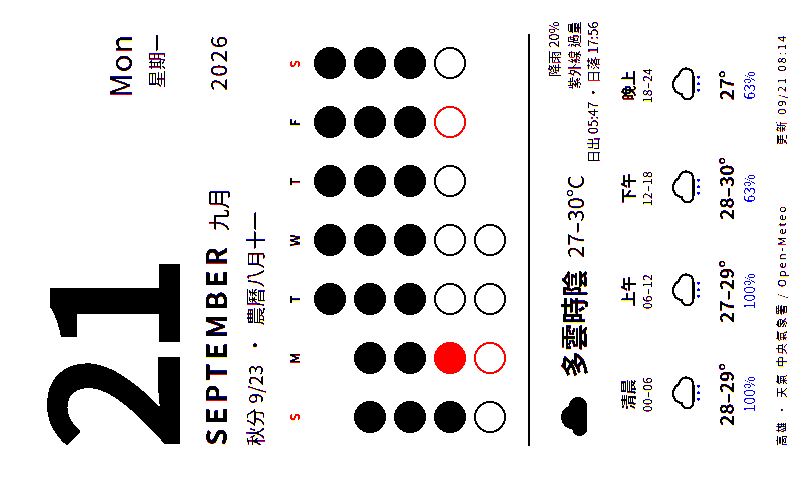
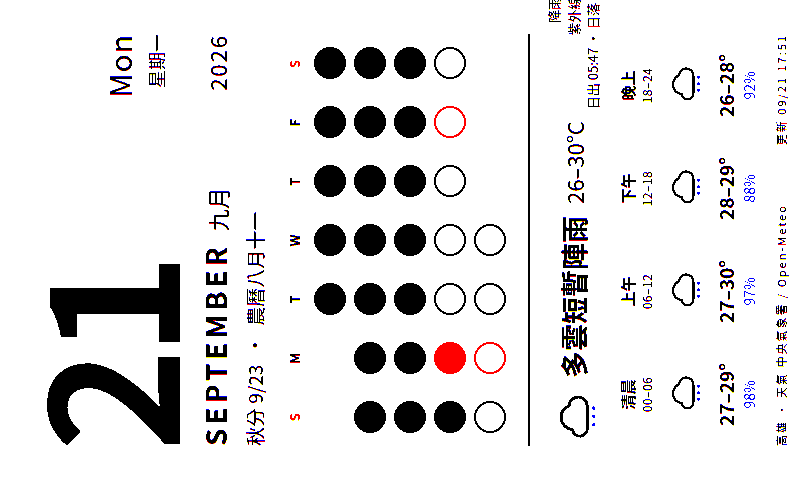
deploy: cf7d1051eb6821bc691ba0ade4beb12cdf9fe0ef

diff --git a/calendar.html b/calendar.html
@@ -54,9 +54,9 @@
   <div class="today"><span class="lunar">秋分 9/23</span><span>·</span><span class="lunar">農曆八月十一</span></div>
   <div class="grid"><div class="h we">S</div><div class="h">M</div><div class="h">T</div><div class="h">W</div><div class="h">T</div><div class="h">F</div><div class="h we">S</div><div class="dot empty"></div><div class="dot empty"></div><div class="dot past" title="1"></div><div class="dot past" title="2"></div><div class="dot past" title="3"></div><div class="dot past" title="4"></div><div class="dot past" title="5"></div><div class="dot past" title="6"></div><div class="dot past" title="7"></div><div class="dot past" title="8"></div><div class="dot past" title="9"></div><div class="dot past" title="10"></div><div class="dot past" title="11"></div><div class="dot past" title="12"></div><div class="dot past" title="13"></div><div class="dot past" title="14"></div><div class="dot past" title="15"></div><div class="dot past" title="16"></div><div class="dot past" title="17"></div><div class="dot past" title="18"></div><div class="dot past" title="19"></div><div class="dot past" title="20"></div><div class="dot now" title="21"></div><div class="dot future" title="22"></div><div class="dot future" title="23"></div><div class="dot future" title="24"></div><div class="dot future hol" title="25"></div><div class="dot future" title="26"></div><div class="dot future" title="27"></div><div class="dot future hol" title="28"></div><div class="dot future" title="29"></div><div class="dot future" title="30"></div></div>
   <div class="wx"><div class="line">
-    <div class="wxhead"><svg viewBox="0 0 64 68" xmlns="http://www.w3.org/2000/svg"><path d="M20 50h26a11 11 0 0 0 1-22 15 15 0 0 0-29 4 9 9 0 0 0 2 18z" fill="#000"/></svg><span class="desc">多雲時陰</span><span class="temp">27–30°C</span>
-      <div class="meta">降雨 20%<br>紫外線 過量<br>日出 05:47 · 日落 17:56</div></div>
-    <div class="slots"><div class="slot"><div class="n">清晨</div><div class="hrs">00–06</div><svg viewBox="0 0 64 68" xmlns="http://www.w3.org/2000/svg"><path d="M20 50h26a11 11 0 0 0 1-22 15 15 0 0 0-29 4 9 9 0 0 0 2 18z" fill="#fff" stroke="#000" stroke-width="3.5" stroke-linejoin="round"/><g fill="#0040ff"><circle cx="24" cy="58" r="2.2"/><circle cx="34" cy="58" r="2.2"/><circle cx="44" cy="58" r="2.2"/></g></svg><div class="t">28–29°</div><div class="p ">100%</div></div><div class="slot"><div class="n">上午</div><div class="hrs">06–12</div><svg viewBox="0 0 64 68" xmlns="http://www.w3.org/2000/svg"><path d="M20 50h26a11 11 0 0 0 1-22 15 15 0 0 0-29 4 9 9 0 0 0 2 18z" fill="#fff" stroke="#000" stroke-width="3.5" stroke-linejoin="round"/><g fill="#0040ff"><circle cx="24" cy="58" r="2.2"/><circle cx="34" cy="58" r="2.2"/><circle cx="44" cy="58" r="2.2"/></g></svg><div class="t">27–29°</div><div class="p ">100%</div></div><div class="slot"><div class="n">下午</div><div class="hrs">12–18</div><svg viewBox="0 0 64 68" xmlns="http://www.w3.org/2000/svg"><path d="M20 50h26a11 11 0 0 0 1-22 15 15 0 0 0-29 4 9 9 0 0 0 2 18z" fill="#fff" stroke="#000" stroke-width="3.5" stroke-linejoin="round"/><g fill="#0040ff"><circle cx="24" cy="58" r="2.2"/><circle cx="34" cy="58" r="2.2"/><circle cx="44" cy="58" r="2.2"/></g></svg><div class="t">28–30°</div><div class="p ">63%</div></div><div class="slot"><div class="n">晚上</div><div class="hrs">18–24</div><svg viewBox="0 0 64 68" xmlns="http://www.w3.org/2000/svg"><path d="M20 50h26a11 11 0 0 0 1-22 15 15 0 0 0-29 4 9 9 0 0 0 2 18z" fill="#fff" stroke="#000" stroke-width="3.5" stroke-linejoin="round"/><g fill="#0040ff"><circle cx="24" cy="58" r="2.2"/><circle cx="34" cy="58" r="2.2"/><circle cx="44" cy="58" r="2.2"/></g></svg><div class="t">27°</div><div class="p ">63%</div></div></div>
+    <div class="wxhead"><svg viewBox="0 0 64 68" xmlns="http://www.w3.org/2000/svg"><path d="M20 50h26a11 11 0 0 0 1-22 15 15 0 0 0-29 4 9 9 0 0 0 2 18z" fill="#fff" stroke="#000" stroke-width="3.5" stroke-linejoin="round"/><g fill="#0040ff"><circle cx="24" cy="58" r="2.2"/><circle cx="34" cy="58" r="2.2"/><circle cx="44" cy="58" r="2.2"/></g></svg><span class="desc">多雲短暫陣雨</span><span class="temp">26–30°C</span>
+      <div class="meta">降雨 30%<br>紫外線 過量<br>日出 05:47 · 日落 17:56</div></div>
+    <div class="slots"><div class="slot"><div class="n">清晨</div><div class="hrs">00–06</div><svg viewBox="0 0 64 68" xmlns="http://www.w3.org/2000/svg"><path d="M20 50h26a11 11 0 0 0 1-22 15 15 0 0 0-29 4 9 9 0 0 0 2 18z" fill="#fff" stroke="#000" stroke-width="3.5" stroke-linejoin="round"/><g fill="#0040ff"><circle cx="24" cy="58" r="2.2"/><circle cx="34" cy="58" r="2.2"/><circle cx="44" cy="58" r="2.2"/></g></svg><div class="t">27–29°</div><div class="p ">98%</div></div><div class="slot"><div class="n">上午</div><div class="hrs">06–12</div><svg viewBox="0 0 64 68" xmlns="http://www.w3.org/2000/svg"><path d="M20 50h26a11 11 0 0 0 1-22 15 15 0 0 0-29 4 9 9 0 0 0 2 18z" fill="#fff" stroke="#000" stroke-width="3.5" stroke-linejoin="round"/><g fill="#0040ff"><circle cx="24" cy="58" r="2.2"/><circle cx="34" cy="58" r="2.2"/><circle cx="44" cy="58" r="2.2"/></g></svg><div class="t">27–30°</div><div class="p ">97%</div></div><div class="slot"><div class="n">下午</div><div class="hrs">12–18</div><svg viewBox="0 0 64 68" xmlns="http://www.w3.org/2000/svg"><path d="M20 50h26a11 11 0 0 0 1-22 15 15 0 0 0-29 4 9 9 0 0 0 2 18z" fill="#fff" stroke="#000" stroke-width="3.5" stroke-linejoin="round"/><g fill="#0040ff"><circle cx="24" cy="58" r="2.2"/><circle cx="34" cy="58" r="2.2"/><circle cx="44" cy="58" r="2.2"/></g></svg><div class="t">28–29°</div><div class="p ">88%</div></div><div class="slot"><div class="n">晚上</div><div class="hrs">18–24</div><svg viewBox="0 0 64 68" xmlns="http://www.w3.org/2000/svg"><path d="M20 50h26a11 11 0 0 0 1-22 15 15 0 0 0-29 4 9 9 0 0 0 2 18z" fill="#fff" stroke="#000" stroke-width="3.5" stroke-linejoin="round"/><g fill="#0040ff"><circle cx="24" cy="58" r="2.2"/><circle cx="34" cy="58" r="2.2"/><circle cx="44" cy="58" r="2.2"/></g></svg><div class="t">26–28°</div><div class="p ">92%</div></div></div>
   </div></div>
-  <div class="foot"><span>高雄 · 天氣 中央氣象署 / Open-Meteo</span><span>更新 09/21 08:14</span></div>
+  <div class="foot"><span>高雄 · 天氣 中央氣象署 / Open-Meteo</span><span>更新 09/21 17:51</span></div>
 </div></body></html>
